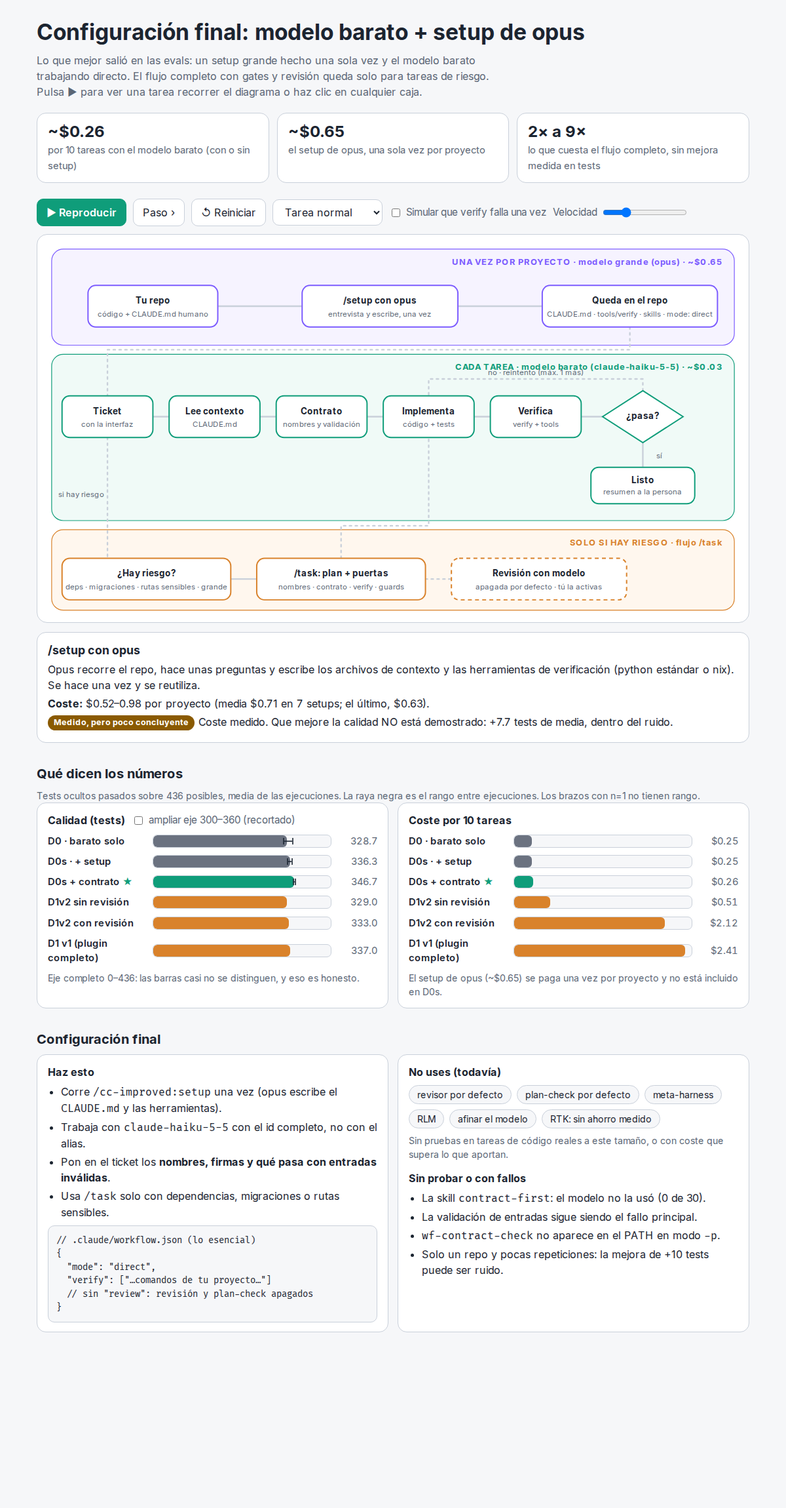
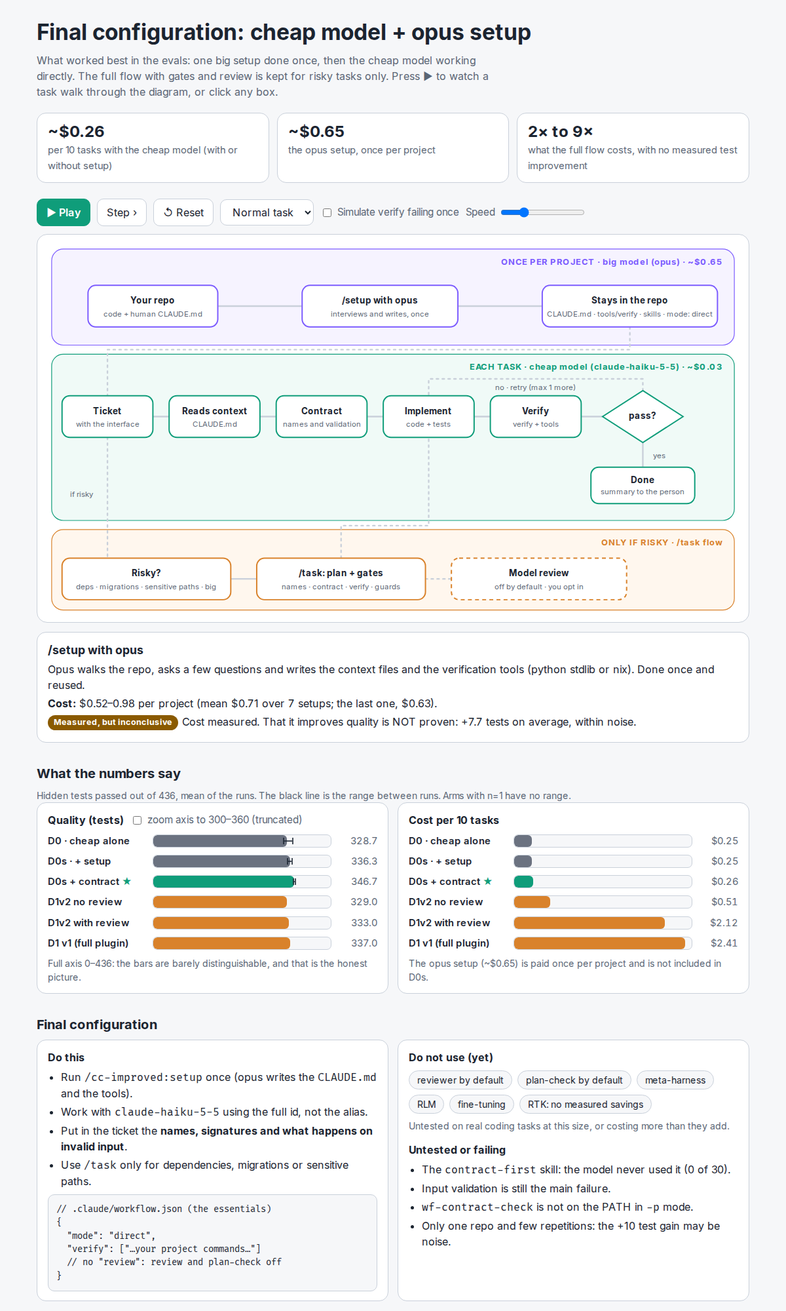
docs: translate the config diagram to English

Changed region(s): [[0.0308, 0.0, 0.9558, 0.961], [0.8017, 0.93, 0.8633, 0.961], [0.8633, 0.496, 0.8942, 0.527]]

diff --git a/docs/diagrams/config-final.html b/docs/diagrams/config-final.html
@@ -1,9 +1,9 @@
 <!doctype html>
-<html lang="es">
+<html lang="en">
 <head>
 <meta charset="utf-8">
 <meta name="viewport" content="width=device-width, initial-scale=1">
-<title>Configuración final cc-improved</title>
+<title>cc-improved final configuration</title>
 <style>
 :root{
   --bg:#f6f7f9; --panel:#ffffff; --ink:#1b2430; --muted:#5b6675; --line:#c9d0da;
@@ -96,41 +96,41 @@ pre{background:var(--bg);border:1px solid var(--line);border-radius:10px;padding
 </head>
 <body>
 <main>
-  <h1>Configuración final: modelo barato + setup de opus</h1>
-  <p class="lead">Lo que mejor salió en las evals: un setup grande hecho una sola vez y el modelo barato trabajando directo. El flujo completo con gates y revisión queda solo para tareas de riesgo. Pulsa ▶ para ver una tarea recorrer el diagrama o haz clic en cualquier caja.</p>
+  <h1>Final configuration: cheap model + opus setup</h1>
+  <p class="lead">What worked best in the evals: one big setup done once, then the cheap model working directly. The full flow with gates and review is kept for risky tasks only. Press ▶ to watch a task walk through the diagram, or click any box.</p>
 
-  <section class="verdict" aria-label="Resumen">
-    <div class="card"><b>~$0.26</b><span>por 10 tareas con el modelo barato (con o sin setup)</span></div>
-    <div class="card"><b>~$0.65</b><span>el setup de opus, una sola vez por proyecto</span></div>
-    <div class="card"><b>2× a 9×</b><span>lo que cuesta el flujo completo, sin mejora medida en tests</span></div>
+  <section class="verdict" aria-label="Summary">
+    <div class="card"><b>~$0.26</b><span>per 10 tasks with the cheap model (with or without setup)</span></div>
+    <div class="card"><b>~$0.65</b><span>the opus setup, once per project</span></div>
+    <div class="card"><b>2× to 9×</b><span>what the full flow costs, with no measured test improvement</span></div>
   </section>
 
-  <div class="toolbar" role="group" aria-label="Controles de la animación">
-    <button id="play" class="primary" aria-pressed="false">▶ Reproducir</button>
-    <button id="step">Paso ›</button>
-    <button id="reset">↺ Reiniciar</button>
-    <select id="kind" aria-label="Tipo de tarea">
-      <option value="normal">Tarea normal</option>
-      <option value="risk">Tarea de riesgo</option>
+  <div class="toolbar" role="group" aria-label="Animation controls">
+    <button id="play" class="primary" aria-pressed="false">▶ Play</button>
+    <button id="step">Step ›</button>
+    <button id="reset">↺ Reset</button>
+    <select id="kind" aria-label="Task type">
+      <option value="normal">Normal task</option>
+      <option value="risk">Risky task</option>
     </select>
-    <label class="chk"><input type="checkbox" id="fail"> Simular que verify falla una vez</label>
-    <label class="chk">Velocidad <input type="range" id="speed" min="0.5" max="2.5" step="0.25" value="1" aria-label="Velocidad"></label>
+    <label class="chk"><input type="checkbox" id="fail"> Simulate verify failing once</label>
+    <label class="chk">Speed <input type="range" id="speed" min="0.5" max="2.5" step="0.25" value="1" aria-label="Speed"></label>
   </div>
 
   <div class="diagram">
   <svg id="svg" viewBox="0 0 1080 580" role="img" aria-labelledby="svgt svgd">
-    <title id="svgt">Flujo de trabajo recomendado</title>
-    <desc id="svgd">Una vez por proyecto: setup con opus. Cada tarea: ticket con interfaz, el modelo barato lee CLAUDE.md, escribe el contrato, implementa, verifica y reintenta como máximo una vez. Si hay riesgo, se usa el flujo con plan y puertas sin modelo.</desc>
+    <title id="svgt">Recommended workflow</title>
+    <desc id="svgd">Once per project: setup with opus. Each task: ticket with the interface, the cheap model reads CLAUDE.md, writes the contract, implements, verifies and retries at most once. If risky, the plan flow with model-free gates is used.</desc>
 
-    <!-- bandas -->
+    <!-- bands -->
     <rect class="band" x="14" y="14" width="1052" height="148" style="fill:var(--setup-bg);stroke:var(--setup)"/>
-    <text class="bandlabel" x="1048" y="38" style="fill:var(--setup)">UNA VEZ POR PROYECTO · modelo grande (opus) · ~$0.65</text>
+    <text class="bandlabel" x="1048" y="38" style="fill:var(--setup)">ONCE PER PROJECT · big model (opus) · ~$0.65</text>
     <rect class="band" x="14" y="176" width="1052" height="256" style="fill:var(--cheap-bg);stroke:var(--cheap)"/>
-    <text class="bandlabel" x="1048" y="200" style="fill:var(--cheap)">CADA TAREA · modelo barato (claude-haiku-5-5) · ~$0.03</text>
+    <text class="bandlabel" x="1048" y="200" style="fill:var(--cheap)">EACH TASK · cheap model (claude-haiku-5-5) · ~$0.03</text>
     <rect class="band" x="14" y="446" width="1052" height="124" style="fill:var(--risk-bg);stroke:var(--risk)"/>
-    <text class="bandlabel" x="1048" y="470" style="fill:var(--risk)">SOLO SI HAY RIESGO · flujo /task</text>
+    <text class="bandlabel" x="1048" y="470" style="fill:var(--risk)">ONLY IF RISKY · /task flow</text>
 
-    <!-- aristas -->
+    <!-- edges -->
     <path id="e_A1A2" class="edge" d="M270,102 L400,102"/>
     <path id="e_A2A3" class="edge" d="M640,102 L770,102"/>
     <path id="e_A3B1" class="edge dash" d="M905,134 V169 H100 V240"/>
@@ -145,85 +145,85 @@ pre{background:var(--bg);border:1px solid var(--line);border-radius:10px;padding
     <path id="e_C1C2" class="edge" d="M290,522 L330,522"/>
     <path id="e_C2B4" class="edge dash" d="M460,490 V440 H595 V304"/>
     <path id="e_C2C3" class="edge dash" d="M590,522 L630,522"/>
-    <text class="elabel" x="950" y="336">sí</text>
-    <text class="elabel" x="760" y="231">no · reintento (máx. 1 más)</text>
-    <text class="elabel" x="60" y="396">si hay riesgo</text>
+    <text class="elabel" x="950" y="336">yes</text>
+    <text class="elabel" x="760" y="231">no · retry (max 1 more)</text>
+    <text class="elabel" x="60" y="396">if risky</text>
 
-    <!-- nodos A -->
-    <g class="node k-setup" id="A1" tabindex="0" role="button"><rect x="70" y="70" width="200" height="64" rx="12"/><text class="t1" x="170" y="98">Tu repo</text><text class="t2" x="170" y="118">código + CLAUDE.md humano</text></g>
-    <g class="node k-setup" id="A2" tabindex="0" role="button"><rect x="400" y="70" width="240" height="64" rx="12"/><text class="t1" x="520" y="98">/setup con opus</text><text class="t2" x="520" y="118">entrevista y escribe, una vez</text></g>
-    <g class="node k-setup" id="A3" tabindex="0" role="button"><rect x="770" y="70" width="270" height="64" rx="12"/><text class="t1" x="905" y="98">Queda en el repo</text><text class="t2" x="905" y="118">CLAUDE.md · tools/verify · skills · mode: direct</text></g>
+    <!-- nodes A -->
+    <g class="node k-setup" id="A1" tabindex="0" role="button"><rect x="70" y="70" width="200" height="64" rx="12"/><text class="t1" x="170" y="98">Your repo</text><text class="t2" x="170" y="118">code + human CLAUDE.md</text></g>
+    <g class="node k-setup" id="A2" tabindex="0" role="button"><rect x="400" y="70" width="240" height="64" rx="12"/><text class="t1" x="520" y="98">/setup with opus</text><text class="t2" x="520" y="118">interviews and writes, once</text></g>
+    <g class="node k-setup" id="A3" tabindex="0" role="button"><rect x="770" y="70" width="270" height="64" rx="12"/><text class="t1" x="905" y="98">Stays in the repo</text><text class="t2" x="905" y="118">CLAUDE.md · tools/verify · skills · mode: direct</text></g>
 
-    <!-- nodos B -->
-    <g class="node k-cheap" id="B1" tabindex="0" role="button"><rect x="30" y="240" width="140" height="64" rx="12"/><text class="t1" x="100" y="268">Ticket</text><text class="t2" x="100" y="288">con la interfaz</text></g>
-    <g class="node k-cheap" id="B2" tabindex="0" role="button"><rect x="195" y="240" width="140" height="64" rx="12"/><text class="t1" x="265" y="268">Lee contexto</text><text class="t2" x="265" y="288">CLAUDE.md</text></g>
-    <g class="node k-cheap" id="B3" tabindex="0" role="button"><rect x="360" y="240" width="140" height="64" rx="12"/><text class="t1" x="430" y="268">Contrato</text><text class="t2" x="430" y="288">nombres y validación</text></g>
-    <g class="node k-cheap" id="B4" tabindex="0" role="button"><rect x="525" y="240" width="140" height="64" rx="12"/><text class="t1" x="595" y="268">Implementa</text><text class="t2" x="595" y="288">código + tests</text></g>
-    <g class="node k-cheap" id="B5" tabindex="0" role="button"><rect x="690" y="240" width="140" height="64" rx="12"/><text class="t1" x="760" y="268">Verifica</text><text class="t2" x="760" y="288">verify + tools</text></g>
-    <g class="node k-cheap" id="D" tabindex="0" role="button"><polygon points="925,232 987,272 925,312 863,272"/><text class="t1" x="925" y="276">¿pasa?</text></g>
-    <g class="node k-cheap" id="B7" tabindex="0" role="button"><rect x="845" y="350" width="160" height="56" rx="12"/><text class="t1" x="925" y="374">Listo</text><text class="t2" x="925" y="392">resumen a la persona</text></g>
+    <!-- nodes B -->
+    <g class="node k-cheap" id="B1" tabindex="0" role="button"><rect x="30" y="240" width="140" height="64" rx="12"/><text class="t1" x="100" y="268">Ticket</text><text class="t2" x="100" y="288">with the interface</text></g>
+    <g class="node k-cheap" id="B2" tabindex="0" role="button"><rect x="195" y="240" width="140" height="64" rx="12"/><text class="t1" x="265" y="268">Reads context</text><text class="t2" x="265" y="288">CLAUDE.md</text></g>
+    <g class="node k-cheap" id="B3" tabindex="0" role="button"><rect x="360" y="240" width="140" height="64" rx="12"/><text class="t1" x="430" y="268">Contract</text><text class="t2" x="430" y="288">names and validation</text></g>
+    <g class="node k-cheap" id="B4" tabindex="0" role="button"><rect x="525" y="240" width="140" height="64" rx="12"/><text class="t1" x="595" y="268">Implement</text><text class="t2" x="595" y="288">code + tests</text></g>
+    <g class="node k-cheap" id="B5" tabindex="0" role="button"><rect x="690" y="240" width="140" height="64" rx="12"/><text class="t1" x="760" y="268">Verify</text><text class="t2" x="760" y="288">verify + tools</text></g>
+    <g class="node k-cheap" id="D" tabindex="0" role="button"><polygon points="925,232 987,272 925,312 863,272"/><text class="t1" x="925" y="276">pass?</text></g>
+    <g class="node k-cheap" id="B7" tabindex="0" role="button"><rect x="845" y="350" width="160" height="56" rx="12"/><text class="t1" x="925" y="374">Done</text><text class="t2" x="925" y="392">summary to the person</text></g>
 
-    <!-- nodos C -->
-    <g class="node k-risk" id="C1" tabindex="0" role="button"><rect x="30" y="490" width="260" height="64" rx="12"/><text class="t1" x="160" y="518">¿Hay riesgo?</text><text class="t2" x="160" y="538">deps · migraciones · rutas sensibles · grande</text></g>
-    <g class="node k-risk" id="C2" tabindex="0" role="button"><rect x="330" y="490" width="260" height="64" rx="12"/><text class="t1" x="460" y="518">/task: plan + puertas</text><text class="t2" x="460" y="538">nombres · contrato · verify · guards</text></g>
-    <g class="node k-risk optional" id="C3" tabindex="0" role="button"><rect x="630" y="490" width="270" height="64" rx="12"/><text class="t1" x="765" y="518">Revisión con modelo</text><text class="t2" x="765" y="538">apagada por defecto · tú la activas</text></g>
+    <!-- nodes C -->
+    <g class="node k-risk" id="C1" tabindex="0" role="button"><rect x="30" y="490" width="260" height="64" rx="12"/><text class="t1" x="160" y="518">Risky?</text><text class="t2" x="160" y="538">deps · migrations · sensitive paths · big</text></g>
+    <g class="node k-risk" id="C2" tabindex="0" role="button"><rect x="330" y="490" width="260" height="64" rx="12"/><text class="t1" x="460" y="518">/task: plan + gates</text><text class="t2" x="460" y="538">names · contract · verify · guards</text></g>
+    <g class="node k-risk optional" id="C3" tabindex="0" role="button"><rect x="630" y="490" width="270" height="64" rx="12"/><text class="t1" x="765" y="518">Model review</text><text class="t2" x="765" y="538">off by default · you opt in</text></g>
 
     <circle id="token" class="token" r="9" cx="0" cy="0"/>
   </svg>
   </div>
 
   <div class="card detail" id="detail" aria-live="polite">
-    <h3>Haz clic en una caja</h3>
-    <p>Aquí aparece qué hace cada paso, cuánto cuesta y <b>cuánta evidencia hay</b> de que ayude.</p>
+    <h3>Click a box</h3>
+    <p>Here you see what each step does, what it costs and <b>how much evidence there is</b> that it helps.</p>
   </div>
 
-  <h2>Qué dicen los números</h2>
-  <p class="note" style="margin-top:0">Tests ocultos pasados sobre 436 posibles, media de las ejecuciones. La raya negra es el rango entre ejecuciones. Los brazos con n=1 no tienen rango.</p>
+  <h2>What the numbers say</h2>
+  <p class="note" style="margin-top:0">Hidden tests passed out of 436, mean of the runs. The black line is the range between runs. Arms with n=1 have no range.</p>
   <div class="charts">
     <div class="card">
-      <div class="toolbar" style="margin-bottom:4px"><b>Calidad (tests)</b>
-        <label class="chk"><input type="checkbox" id="zoom"> ampliar eje 300–360 (recortado)</label></div>
+      <div class="toolbar" style="margin-bottom:4px"><b>Quality (tests)</b>
+        <label class="chk"><input type="checkbox" id="zoom"> zoom axis to 300–360 (truncated)</label></div>
       <div id="chartQ"></div>
-      <p class="note" id="zoomnote">Eje completo 0–436: las barras casi no se distinguen, y eso es honesto.</p>
+      <p class="note" id="zoomnote">Full axis 0–436: the bars are barely distinguishable, and that is the honest picture.</p>
     </div>
     <div class="card">
-      <b>Coste por 10 tareas</b>
+      <b>Cost per 10 tasks</b>
       <div id="chartC"></div>
-      <p class="note">El setup de opus (~$0.65) se paga una vez por proyecto y no está incluido en D0s.</p>
+      <p class="note">The opus setup (~$0.65) is paid once per project and is not included in D0s.</p>
     </div>
   </div>
 
-  <h2>Configuración final</h2>
+  <h2>Final configuration</h2>
   <div class="two">
     <div class="card">
-      <b>Haz esto</b>
+      <b>Do this</b>
       <ul class="clean">
-        <li>Corre <code>/cc-improved:setup</code> una vez (opus escribe el <code>CLAUDE.md</code> y las herramientas).</li>
-        <li>Trabaja con <code>claude-haiku-5-5</code> con el id completo, no con el alias.</li>
-        <li>Pon en el ticket los <b>nombres, firmas y qué pasa con entradas inválidas</b>.</li>
-        <li>Usa <code>/task</code> solo con dependencias, migraciones o rutas sensibles.</li>
+        <li>Run <code>/cc-improved:setup</code> once (opus writes the <code>CLAUDE.md</code> and the tools).</li>
+        <li>Work with <code>claude-haiku-5-5</code> using the full id, not the alias.</li>
+        <li>Put in the ticket the <b>names, signatures and what happens on invalid input</b>.</li>
+        <li>Use <code>/task</code> only for dependencies, migrations or sensitive paths.</li>
       </ul>
-      <pre>// .claude/workflow.json (lo esencial)
+      <pre>// .claude/workflow.json (the essentials)
 {
   "mode": "direct",
-  "verify": ["…comandos de tu proyecto…"]
-  // sin "review": revisión y plan-check apagados
+  "verify": ["…your project commands…"]
+  // no "review": review and plan-check off
 }</pre>
     </div>
     <div class="card">
-      <b>No uses (todavía)</b>
+      <b>Do not use (yet)</b>
       <div class="chips">
-        <span class="chip">revisor por defecto</span><span class="chip">plan-check por defecto</span>
-        <span class="chip">meta-harness</span><span class="chip">RLM</span><span class="chip">afinar el modelo</span>
-        <span class="chip">RTK: sin ahorro medido</span>
+        <span class="chip">reviewer by default</span><span class="chip">plan-check by default</span>
+        <span class="chip">meta-harness</span><span class="chip">RLM</span><span class="chip">fine-tuning</span>
+        <span class="chip">RTK: no measured savings</span>
       </div>
-      <p class="note">Sin pruebas en tareas de código reales a este tamaño, o con coste que supera lo que aportan.</p>
-      <b style="display:block;margin-top:14px">Sin probar o con fallos</b>
+      <p class="note">Untested on real coding tasks at this size, or costing more than they add.</p>
+      <b style="display:block;margin-top:14px">Untested or failing</b>
       <ul class="clean">
-        <li>La skill <code>contract-first</code>: el modelo no la usó (0 de 30).</li>
-        <li>La validación de entradas sigue siendo el fallo principal.</li>
-        <li><code>wf-contract-check</code> no aparece en el PATH en modo <code>-p</code>.</li>
-        <li>Solo un repo y pocas repeticiones: la mejora de +10 tests puede ser ruido.</li>
+        <li>The <code>contract-first</code> skill: the model never used it (0 of 30).</li>
+        <li>Input validation is still the main failure.</li>
+        <li><code>wf-contract-check</code> is not on the PATH in <code>-p</code> mode.</li>
+        <li>Only one repo and few repetitions: the +10 test gain may be noise.</li>
       </ul>
     </div>
   </div>
@@ -239,26 +239,26 @@ pre{background:var(--bg);border:1px solid var(--line);border-radius:10px;padding
   var $ = function(id){return document.getElementById(id)};
 
   var INFO = {
-    A1:{t:"Tu repo",b:"Punto de partida: tu código y, si ya existe, tu CLAUDE.md escrito por una persona.",c:"Sin coste.",e:["none","—"]},
-    A2:{t:"/setup con opus",b:"Opus recorre el repo, hace unas preguntas y escribe los archivos de contexto y las herramientas de verificación (python estándar o nix). Se hace una vez y se reutiliza.",c:"$0.52–0.98 por proyecto (media $0.71 en 7 setups; el último, $0.63).",e:["warn","Coste medido. Que mejore la calidad NO está demostrado: +7.7 tests de media, dentro del ruido."]},
-    A3:{t:"Queda en el repo",b:"CLAUDE.md con dos secciones cortas (“Antes de terminar” y “Contrato primero”, 12 líneas), herramientas en tools/verify, skills del proyecto y workflow.json con mode: direct.",c:"Se relee en cada turno del modelo barato, por eso se mantiene corto.",e:["ok","Un setup real lo generó bien, en 12 líneas (n=1)."]},
-    B1:{t:"Ticket con la interfaz",b:"Escribe en el ticket los nombres exactos, la firma, qué recibe y devuelve y qué pasa con entradas inválidas. Evita que el modelo barato invente nombres o formas.",c:"Sin coste extra.",e:["ok","Mayor palanca medida: +28 a +39 tests de 121 en las 3 celdas con y sin pista."]},
-    B2:{t:"Lee el contexto",b:"El modelo barato (claude-haiku-5-5, id completo; el alias haiku se factura como sonnet en plan mode) lee el CLAUDE.md que dejó el setup.",c:"~$0.026 por tarea (media de las ejecuciones de D0).",e:["ok","Coste medido con n=3 por celda."]},
-    B3:{t:"Contrato primero",b:"Antes de editar escribe qué va a crear: nombres, firmas, comportamiento ante entradas inválidas. La skill contract-first y wf-contract-check lo apoyan.",c:"Casi sin coste.",e:["warn","El brazo con contrato sacó +10.4 tests, pero el modelo no usó la skill (0/30) y escribió contract.json en 8/30. La mejora no es atribuible a la skill y puede ser ruido."]},
-    B4:{t:"Implementa",b:"Escribe el código y los tests. Cada comportamiento decidido para entradas inválidas debe tener su test.",c:"Aquí se gasta casi todo el coste de la tarea.",e:["bad","La validación de entradas es el fallo dominante: unos 40–43 tests fallidos por pasada y no bajó con las instrucciones."]},
-    B5:{t:"Verifica",b:"Ejecuta el verify del manifest, las herramientas de tools/verify y wf-contract-check. No se da por terminado si algo falla.",c:"Casi sin coste de modelo (son comandos).",e:["warn","Límite: los tests visibles pasaban en 60/60 ejecuciones y aun así 54/60 fallaban tests ocultos. Verificar ayuda, pero no basta."]},
-    D:{t:"¿Pasa?",b:"Si falla, un reintento con el informe. Si vuelve a fallar, el agente termina con FAILED y avisa a la persona. Máximo 2 intentos.",c:"Cada reintento cuesta otra pasada de implementación.",e:["ok","Terminar a tiempo ahorra: las ejecuciones fallidas hacen más llamadas (79.5 frente a 61.7 por parche)."]},
-    B7:{t:"Listo",b:"Resumen corto a la persona con lo que verificó y lo que no.",c:"—",e:["none","—"]},
-    C1:{t:"¿Hay riesgo?",b:"Dependencias nuevas, migraciones, rutas sensibles o un cambio grande (8 archivos o más). Si no hay nada de eso, sigues el flujo normal de arriba.",c:"Se calcula en código, sin modelo.",e:["ok","El nivel de riesgo se registra aunque no pida revisión."]},
-    C2:{t:"/task: plan y puertas",b:"Plan mode con puertas que no usan modelo: nombres verificados, contrato de interfaz, verify del manifest y guards de archivos fuera del plan.",c:"~$0.05 por tarea (D1v2 sin revisión: $0.51 por 10 tareas), unas 2× el modelo barato solo.",e:["warn","Sin mejora medible en tests frente al modelo barato solo (329 frente a 336), n=1. Su valor son las garantías, que la eval no mide."]},
-    C3:{t:"Revisión con modelo",b:"Un revisor con modelo fuerte mira el diff. Está apagada por defecto: la activas con review.always o review.minLevel en el manifest.",c:"En D1v2 fue el 63% del coste (revisor 37%, plan-check 26%).",e:["bad","0 rondas de arreglo en 20 revisiones, y el plan-check devolvió FIX 16/16: no aportaron calidad medible."]}
+    A1:{t:"Your repo",b:"Starting point: your code and, if one exists, your human-written CLAUDE.md.",c:"No cost.",e:["none","—"]},
+    A2:{t:"/setup with opus",b:"Opus walks the repo, asks a few questions and writes the context files and the verification tools (python stdlib or nix). Done once and reused.",c:"$0.52–0.98 per project (mean $0.71 over 7 setups; the last one, $0.63).",e:["warn","Cost measured. That it improves quality is NOT proven: +7.7 tests on average, within noise."]},
+    A3:{t:"Stays in the repo",b:"CLAUDE.md with two short sections (“Before finishing” and “Contract first”, 12 lines), tools in tools/verify, project skills and workflow.json with mode: direct.",c:"Re-read on every turn of the cheap model, so it is kept short.",e:["ok","A real setup generated it fine, in 12 lines (n=1)."]},
+    B1:{t:"Ticket with the interface",b:"Write in the ticket the exact names, the signature, what it takes and returns, and what happens on invalid input. This stops the cheap model from inventing names or shapes.",c:"No extra cost.",e:["ok","Largest lever measured: +28 to +39 tests out of 121 in the 3 cells with and without the hint."]},
+    B2:{t:"Reads the context",b:"The cheap model (claude-haiku-5-5, full id; the haiku alias is billed as sonnet in plan mode) reads the CLAUDE.md the setup left.",c:"~$0.026 per task (mean of the D0 runs).",e:["ok","Cost measured with n=3 per cell."]},
+    B3:{t:"Contract first",b:"Before editing, write what will be created: names, signatures, behavior on invalid input. The contract-first skill and wf-contract-check support it.",c:"Almost free.",e:["warn","The contract arm scored +10.4 tests, but the model never used the skill (0/30) and wrote contract.json in 8/30. The gain is not attributable to the skill and may be noise."]},
+    B4:{t:"Implement",b:"Writes the code and the tests. Every behavior decided for invalid input must have its test.",c:"Almost all of the task cost is spent here.",e:["bad","Input validation is the dominant failure: about 40–43 failing tests per pass, and it did not drop with the instructions."]},
+    B5:{t:"Verify",b:"Runs the manifest verify, the tools in tools/verify and wf-contract-check. It is not done if anything fails.",c:"Almost no model cost (they are commands).",e:["warn","Limit: visible tests passed in 60/60 runs and still 54/60 failed hidden tests. Verifying helps, but is not enough."]},
+    D:{t:"Pass?",b:"If it fails, one retry with the report. If it fails again, the agent ends with FAILED and tells the person. At most 2 attempts.",c:"Each retry costs another implementation pass.",e:["ok","Stopping on time saves money: failed runs make more calls (79.5 vs 61.7 per patch)."]},
+    B7:{t:"Done",b:"Short summary to the person with what was verified and what was not.",c:"—",e:["none","—"]},
+    C1:{t:"Risky?",b:"New dependencies, migrations, sensitive paths or a big change (8 files or more). If none of that, follow the normal flow above.",c:"Computed in code, no model.",e:["ok","The risk level is recorded even when it does not ask for review."]},
+    C2:{t:"/task: plan and gates",b:"Plan mode with gates that use no model: verified names, interface contract, manifest verify and guards on files outside the plan.",c:"~$0.05 per task (D1v2 without review: $0.51 per 10 tasks), about 2× the cheap model alone.",e:["warn","No measurable test improvement over the cheap model alone (329 vs 336), n=1. Its value is the guarantees, which the eval does not measure."]},
+    C3:{t:"Model review",b:"A strong-model reviewer looks at the diff. Off by default: you enable it with review.always or review.minLevel in the manifest.",c:"In D1v2 it was 63% of the cost (reviewer 37%, plan-check 26%).",e:["bad","0 fix rounds in 20 reviews, and plan-check returned FIX 16/16: they added no measurable quality."]}
   };
-  var EV = {ok:["b-ok","Medido"],warn:["b-warn","Medido, pero poco concluyente"],none:["b-none","Sin evidencia necesaria"],bad:["b-bad","Evidencia en contra o fallo medido"]};
+  var EV = {ok:["b-ok","Measured"],warn:["b-warn","Measured, but inconclusive"],none:["b-none","No evidence needed"],bad:["b-bad","Evidence against, or a measured failure"]};
 
   function showInfo(id){
     var i = INFO[id]; if(!i) return;
     var ev = EV[i.e[0]];
-    detail.innerHTML = "<h3></h3><p></p><p><b>Coste:</b> <span class='c'></span></p><p><span class='badge "+ev[0]+"'>"+ev[1]+"</span><span class='e'></span></p>";
+    detail.innerHTML = "<h3></h3><p></p><p><b>Cost:</b> <span class='c'></span></p><p><span class='badge "+ev[0]+"'>"+ev[1]+"</span><span class='e'></span></p>";
     detail.querySelector("h3").textContent = i.t;
     detail.querySelectorAll("p")[0].textContent = i.b;
     detail.querySelector(".c").textContent = i.c;
@@ -270,7 +270,7 @@ pre{background:var(--bg);border:1px solid var(--line);border-radius:10px;padding
     n.addEventListener("keydown", function(ev){ if(ev.key==="Enter"||ev.key===" "){ev.preventDefault(); showInfo(id);} });
   });
 
-  /* --- secuencias --- */
+  /* --- sequences --- */
   function build(kind, fail){
     var s = [["A1"],["e_A1A2","A2"],["e_A2A3","A3"],["e_A3B1","B1"]];
     if(kind==="risk"){
@@ -297,7 +297,7 @@ pre{background:var(--bg);border:1px solid var(--line);border-radius:10px;padding
   function stopAnim(){ if(anim){cancelAnimationFrame(anim);anim=null} if(timer){clearTimeout(timer);timer=null} }
   function setPlaying(p){
     playing = p;
-    var b = $("play"); b.textContent = p ? "⏸ Pausa" : "▶ Reproducir"; b.setAttribute("aria-pressed", String(p));
+    var b = $("play"); b.textContent = p ? "⏸ Pause" : "▶ Play"; b.setAttribute("aria-pressed", String(p));
   }
   function arrive(id){
     document.querySelectorAll(".node.active").forEach(function(n){n.classList.remove("active"); n.classList.add("done")});
@@ -347,14 +347,14 @@ pre{background:var(--bg);border:1px solid var(--line);border-radius:10px;padding
   $("kind").addEventListener("change", reset);
   $("fail").addEventListener("change", reset);
 
-  /* --- gráficos --- */
+  /* --- charts --- */
   var ARMS = [
-    {n:"D0 · barato solo",       q:328.7, lo:319, hi:345, c:0.248, k:""},
+    {n:"D0 · cheap alone",       q:328.7, lo:319, hi:345, c:0.248, k:""},
     {n:"D0s · + setup",          q:336.3, lo:329, hi:343, c:0.252, k:""},
-    {n:"D0s + contrato",         q:346.7, lo:343, hi:350, c:0.264, k:"rec"},
-    {n:"D1v2 sin revisión",      q:329,   lo:null,hi:null,c:0.506, k:"bad"},
-    {n:"D1v2 con revisión",      q:333,   lo:null,hi:null,c:2.12,  k:"bad"},
-    {n:"D1 v1 (plugin completo)",q:337,   lo:null,hi:null,c:2.41,  k:"bad"}
+    {n:"D0s + contract",         q:346.7, lo:343, hi:350, c:0.264, k:"rec"},
+    {n:"D1v2 no review",      q:329,   lo:null,hi:null,c:0.506, k:"bad"},
+    {n:"D1v2 with review",      q:333,   lo:null,hi:null,c:2.12,  k:"bad"},
+    {n:"D1 v1 (full plugin)",q:337,   lo:null,hi:null,c:2.41,  k:"bad"}
   ];
   function mk(host, rows){ host.innerHTML=""; rows.forEach(function(r){
     var d=document.createElement("div"); d.className="row"+(r.k==="rec"?" rec":"");
@@ -370,7 +370,7 @@ pre{background:var(--bg);border:1px solid var(--line);border-radius:10px;padding
       f.style.width=pct(a.q)+"%";
       if(a.lo!==null){ w.style.display="block"; w.style.left=pct(a.lo)+"%"; w.style.width=(pct(a.hi)-pct(a.lo))+"%"; } else { w.style.display="none"; }
     });
-    $("zoomnote").textContent = zoom ? "Eje recortado a 300–360: exagera las diferencias. Los rangos de D0, D0s y D0s+contrato se solapan casi por completo." : "Eje completo 0–436: las barras casi no se distinguen, y eso es honesto.";
+    $("zoomnote").textContent = zoom ? "Axis truncated to 300–360: it exaggerates differences. The ranges of D0, D0s and D0s+contract almost fully overlap." : "Full axis 0–436: the bars are barely distinguishable, and that is the honest picture.";
   }
   function drawC(){
     var host=$("chartC"), max=2.5;
@@ -388,7 +388,7 @@ pre{background:var(--bg);border:1px solid var(--line);border-radius:10px;padding
     var shown=false, go=function(){ if(!shown){ shown=true; reveal(); } };
     var io=new IntersectionObserver(function(es){ es.forEach(function(e){ if(e.isIntersecting){ go(); io.disconnect(); } }); },{threshold:.25});
     io.observe($("chartQ"));
-    setTimeout(go, 2500); /* respaldo: si el observador no dispara, las barras igualmente aparecen */
+    setTimeout(go, 2500); /* fallback: if the observer does not fire, the bars still appear */
   } else { reveal(); }
 
   reset();
